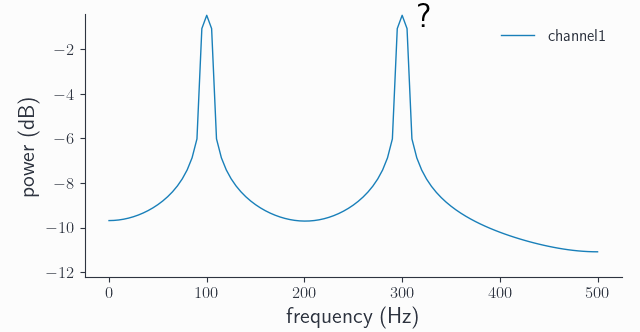
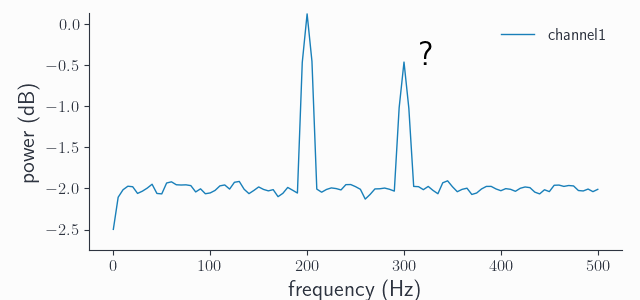
DOC: Resampling tutorial done
Changes to be committed:
	modified:   doc/source/tutorials/res_ds_spec.png
	new file:   doc/source/tutorials/res_lpds_spec.png
	new file:   doc/source/tutorials/res_lporderds_spec.png
	modified:   doc/source/tutorials/res_orig_spec.png
	new file:   doc/source/tutorials/res_rs_spec.png
	modified:   doc/source/tutorials/res_synthdata.py
	modified:   doc/source/tutorials/resampling.rst
	modified:   syncopy/preproc/resampledata.py

diff --git a/doc/source/tutorials/res_synthdata.py b/doc/source/tutorials/res_synthdata.py
@@ -3,28 +3,50 @@ import syncopy as spy
 from syncopy.tests import synth_data
 
 # basic dataset properties
-nTrials = 20
+nTrials = 100
 samplerate = 5000  # in Hz
 
-# add a harmonic with 100Hz
-adata = synth_data.harmonic(nTrials, freq=100, samplerate=samplerate)
+# add a harmonic with 200Hz
+adata = 2 * synth_data.harmonic(nTrials, freq=200, samplerate=samplerate)
 
 # add another harmonic with 1300Hz
 adata += synth_data.harmonic(nTrials, freq=1300, samplerate=samplerate)
 
+# white noise floor
+adata += synth_data.white_noise(nTrials, samplerate=samplerate)
 
 # compute the trial averaged spectrum and plot
 spec = spy.freqanalysis(adata, keeptrials=False)
-# spec.singlepanelplot(channel=0)
+f1, ax1 = spec.singlepanelplot(channel=0)
+f1.set_size_inches(6.4, 3)
+f1.savefig('res_orig_spec.png')
 
 # naive downsampling
 ds_adata = spy.resampledata(adata, method='downsample', resamplefs=1000)
 ds_spec = spy.freqanalysis(ds_adata, keeptrials=False)
-f, ax = ds_spec.singlepanelplot(channel=0)
-# ax.annotate('?', (315, -1), fontsize=25)
+f2, ax2 = ds_spec.singlepanelplot(channel=0)
+ax2.annotate('?', (315, -.5), fontsize=25)
+f2.set_size_inches(6.4, 3)
+f2.savefig('res_ds_spec.png')
 
 
 ds_adata2 = spy.resampledata(adata, method='downsample', resamplefs=1000, lpfreq=500)
 ds_spec2 = spy.freqanalysis(ds_adata2, keeptrials=False)
-f, ax = ds_spec2.singlepanelplot(channel=0)
+f3, ax3 = ds_spec2.singlepanelplot(channel=0)
+f3.set_size_inches(6.4, 3)
+f3.savefig('res_lpds_spec.png')
 
+ds_adata3 = spy.resampledata(adata, method='downsample', resamplefs=1000, lpfreq=500, order=5000)
+ds_spec3 = spy.freqanalysis(ds_adata3, keeptrials=False)
+f4, ax4 = ds_spec3.singlepanelplot(channel=0)
+f4.set_size_inches(6.4, 3)
+f4.savefig('res_lporderds_spec.png')
+
+# resampling
+
+# rs_adata = spy.resampledata(adata, method='resample', resamplefs=1202, order=20000)
+rs_adata = spy.resampledata(adata, method='resample', resamplefs=1200)
+rs_spec = spy.freqanalysis(rs_adata, keeptrials=False)
+f5, ax5 = rs_spec.singlepanelplot(channel=0)
+f5.set_size_inches(6.4, 3)
+f5.savefig('res_rs_spec.png')

diff --git a/syncopy/preproc/resampledata.py b/syncopy/preproc/resampledata.py
@@ -11,7 +11,7 @@ from syncopy import AnalogData
 from syncopy.shared.parsers import data_parser, scalar_parser
 
 from syncopy.shared.tools import get_defaults, get_frontend_cfg
-from syncopy.shared.errors import SPYValueError, SPYWarning, SPYInfo
+from syncopy.shared.errors import SPYValueError, SPYWarning
 
 from syncopy.shared.kwarg_decorators import (
     unwrap_cfg,
@@ -98,7 +98,6 @@ def resampledata(data,
     if method not in availableMethods:
         lgl = "'" + "or '".join(opt + "' " for opt in availableMethods)
         raise SPYValueError(legal=lgl, varname="method", actual=method)
-
 
     # Make sure our one mandatory input object can be processed
     try:

diff --git a/doc/source/tutorials/resampling.rst b/doc/source/tutorials/resampling.rst
@@ -1,16 +1,19 @@
 Resample data with Syncopy
 ==========================
 
-Changing the sampling rate of a dataset is a common tasks in digital signal processing. Syncopy offers simple *downsampling* (decimation) with or without explicit low pass filtering, and the numerically more expensive *resampling* to arbitrary new sample rates.
+Changing the sampling rate of a dataset is a common tasks in digital signal processing. Syncopy offers simple *downsampling* (decimation) with or without explicit low pass filtering, and the numerically more expensive *resampling* to arbitrary new sampling rates.
 
 .. Note::
    Our friends at FieldTrip also have a nice tutorial about resampling `here <https://www.fieldtriptoolbox.org/faq/resampling_lowpassfilter>`_
 
+.. contents:: Topics covered
+   :local:
+   
 Synthetic Data
 --------------
 
 To start with a clean slate, let's construct a synthetic signal with two harmonics,
-one at 100Hz and one at 1300Hz:
+one at 200Hz and one at 1300Hz:
 
 .. code-block:: python
     :linenos:
@@ -20,14 +23,18 @@ one at 100Hz and one at 1300Hz:
     from syncopy.tests import synth_data
 
     # basic dataset properties
-    nTrials = 20
+    nTrials = 100
     samplerate = 5000  # in Hz
 
-    # add a harmonic with 100Hz
-    adata = synth_data.harmonic(nTrials, freq=100, samplerate=samplerate)
+    # add a strong harmonic with 200Hz
+    adata = 2 * synth_data.harmonic(nTrials, freq=200, samplerate=samplerate)
 
     # add another harmonic with 1300Hz
     adata += synth_data.harmonic(nTrials, freq=1300, samplerate=samplerate)
+
+    # white noise floor
+    adata += synth_data.white_noise(nTrials, samplerate=samplerate)
+
 
 Note that our *original sampling rate* is 5000Hz, so both harmonics are well sampled as can be seen in the power spectrum::
 
@@ -40,7 +47,7 @@ Note that our *original sampling rate* is 5000Hz, so both harmonics are well sam
 Downsampling
 ------------
 
-Suppose we want to downsample our signal to 1kHz. The *original sampling rate* here is an exact integer multiple of our *new sampling rate*: :math:`5 \times 1000Hz = 5000Hz` Hence, we can use direct *decimation* or downsampling. This really is only a fancy term for taking every `nth` data point, where `n` is the integer division factor, which is 5 in our case. In Syncopy we can directly use ``method='downsample'``::
+Suppose we want to downsample our signal to 1kHz. The *original sampling rate* here is an exact integer multiple of our *new sampling rate*: :math:`5 \times 1000Hz = 5000Hz` Hence, we can use direct *decimation* or downsampling. This is only a fancy term for taking every `nth` data point, where `n` is the integer division factor, which is 5 in our case. In Syncopy we can directly use :func:`~syncopy.resampledata` with ``method='downsample'`` and the target sampling rate ``resamplefs`` set to 1000Hz::
 
   ds_adata = spy.resampledata(adata, method='downsample', resamplefs=1000)
 
@@ -51,16 +58,16 @@ Let's have a look at the new power spectrum::
 
 .. image:: res_ds_spec.png
 
-What happened? First we have to note that the frequency axis now goes from 0Hz to only 500Hz, the *new Nyquist frequency* which is half of our new sample rate. We still see our expected peak at 100Hz, but there is also another one at 300Hz even though our signal never contained such oscillations! This phenomenon is called `aliasing <https://en.wikipedia.org/wiki/Aliasing>`_, basically meaning that frequencies which are present in the signal yet are higher than the Nyquist limit (:math:`1300 Hz > 500Hz`) "wrap around" and re-appear as spurious low-frequency components. The formula for alias frequencies is:
+What happened? First we have to note that the frequency axis now goes from 0Hz to only 500Hz, which is the *new Nyquist frequency* :math:`1000Hz / 2`. We still see our expected peak at 200Hz, but there is also another one at 300Hz even though our signal never contained such oscillations! This phenomenon is called `aliasing <https://en.wikipedia.org/wiki/Aliasing>`_, basically meaning that frequencies which are present in the signal yet are higher than the Nyquist limit (:math:`1300 Hz > 500Hz`) "wrap around" and re-appear as spurious low-frequency components. This is a common problem of *digitization* of analog signals, think audio processing. The formula for the alias frequencies is:
 
 .. math::
 
    f_{alias} = \left |\frac{f_{sample}}{n} - f_{orig}\right | 
 
-where :math:`f_{sample}` is the original sampling frequency, :math:`n` is the integer decimation factor and :math:`f_{orig}` is the original frequency. Plugging in the values we have gives: :math:`|5000Hz / 5 - 1300Hz| = 300Hz`. So this 300Hz peak is our old 1300Hz peak, but shifted by 1000Hz.
+where :math:`f_{sample}` is the original sampling frequency, :math:`n = \frac{f_{sample}}{f_{resample}}` is the integer decimation factor and :math:`f_{orig}` is the original frequency. Plugging in the values we have gives: :math:`|5000Hz / 5 - 1300Hz| = 300Hz`. So this 300Hz peak is the alias of our original 1300Hz peak, but shifted by 1000Hz.
 
 .. note::
-   To calculate the alias frequencies for original frequencies which after one application of the formula above are still outside the new frequency range, just re-apply the formula. For example say :math:`f_{orig} = 1700Hz`, after one round we get :math:`|1000Hz - 1700Hz| = 700Hz` which is still outside our spectral range of 0-500Hz. A 2nd iteration then yields :math:`1000Hz - 700Hz = 300Hz`, meaning that both 1300Hz and 1700Hz components get aliased by the same frequency, try it yourself ;)
+   To calculate the alias frequencies for original frequencies which after one application of the formula above are still outside the new frequency range, just re-apply the formula. For example say :math:`f_{orig} = 1700Hz`, after one round we get :math:`|1000Hz - 1700Hz| = 700Hz` which is still outside our spectral range of 0-500Hz. A 2nd iteration then yields :math:`1000Hz - 700Hz = 300Hz`, meaning that both 1300Hz and 1700Hz get aliased by the 300Hz frequency in the spectrum of the downsampled signal, try it yourself ;)
 
 Low-pass filtering
 ^^^^^^^^^^^^^^^^^^
@@ -75,5 +82,49 @@ throws::
   
 because 600Hz is still bigger than the new Nyquist of :math:`1000Hz / 2 = 500Hz`. But this here will work just fine and results in the expected spectrum::
 
-  ds_data2 = spy.resampledata(adata, method='downsample', resamplefs=1000, lpfreq=400)
+  ds_data2 = spy.resampledata(adata, method='downsample', resamplefs=1000, lpfreq=500)
+  ds_spec2 = spy.freqanalysis(ds_adata2, keeptrials=False)
+  ds_spec2.singlepanelplot(channel=0)
+
+.. image:: res_lpds_spec.png
+
+Note the appearance of a "nose" in the spectrum towards 500Hz, this is the *filter roll-off*. Syncopy uses a windowed sinc FIR filter as anti-aliasing filter, but no filter is perfect so some frequencies away from the 500Hz cut-off also get attenuated. We can sharpen the filter by increasing its order, Syncopy's default is ``order=1000``, let's try with ``order=5000``::  
+
+  ds_data3 = spy.resampledata(adata, method='downsample', resamplefs=1000, lpfreq=500, order=5000)
+  ds_spec3 = spy.freqanalysis(ds_adata3, keeptrials=False)
+  ds_spec3.singlepanelplot(channel=0)
+
+.. image:: res_lporderds_spec.png
   
+Indeed, we see a sharper transition around the 500Hz cut-off frequency. In practice, the frequencies of interest are rarely near the Nyquist limit so the default order should be fine for most if not all cases.
+
+.. note::
+
+   Comparing the 200Hz spectral peak height between all shown spectra, we see that it's constant. This is an important property of any spectral analysis: to let wanted frequencies pass through essentially unaltered.
+
+As a final note, the reason we give the user the choice if low-pass filtering is required for downsampling, is that we also have :func:`syncopy.preprocessing`. So if proper filtering was done *before*, there is no need to filter again.
+
+Resampling
+----------
+
+What happens if our new sampling frequency happens to *not* be an integer multiple of the old sampling frequency? In this case the standard method is often called *up-fir-down*, which is an abbreviation for upsampling, FIR filtering and downsampling. So it is a three step process, where up- and downsampling are actually both done by integer factors :math:`up` and :math:`down`. The FIR filter is again an implicit anti-aliasing filter, acting on the upsampled signal. The numerical cost of this algorithm critically depends on the sampling factors, which must fulfill:
+
+.. math::
+
+   f_{resample} = \frac{up}{down} f_{sample}
+
+These numbers directly depend on the greatest common divisor :math:`gcd` between :math:`f_{sample}` and :math:`f_{resample}`. So we can also write :math:`up = \frac{f_{resample}}{gcd}` and :math:`down = \frac{f_{sample}}{gcd}`. Suppose we want to resample our original signal from 5kHz to 1200Hz: we have :math:`gcd = 200` and it follows that :math:`up = 6` and :math:`down = 25` , which isn't to bad and we call :func:`syncopy.resampledata` with ``method='resample'``::
+
+  rs_adata = spy.resampledata(adata, method='resample', resamplefs=1200)
+  rs_spec = spy.freqanalysis(rs_adata, keeptrials=False)
+  rs_spec.singlepanelplot(channel=0)
+
+.. image:: res_rs_spec.png
+
+This time we did not get a spurious additional peak, as for resampling the FIR step acts as an implicit anti-alias filter getting automatically rid of any aliases. We could again increase the sharpness towards the new Nyquist frequency of 600Hz by increasing the order, but we'll leave that to the interested reader.
+
+Under the hood, Syncopy leverages the efficient polyphase method from `SciPy's reference implementation <https://docs.scipy.org/doc/scipy/reference/generated/scipy.signal.resample_poly.html>`_, but we use our own windowed sinc as it provides a sharper roll-off compared to SciPy's default FIR filter.
+  
+.. note::
+
+   If the :math:`gcd` is quite small, the up- and downsampling factors can get huge. As the anti-aliasing FIR filter acts on the upsampled signal, the default filter order can get insufficient and aliases start to reappear. In these cases manually setting a higher order is crucial. As an exercise, try resampling to :math:`f_{resample} = 1202Hz`, and see for yourself!
